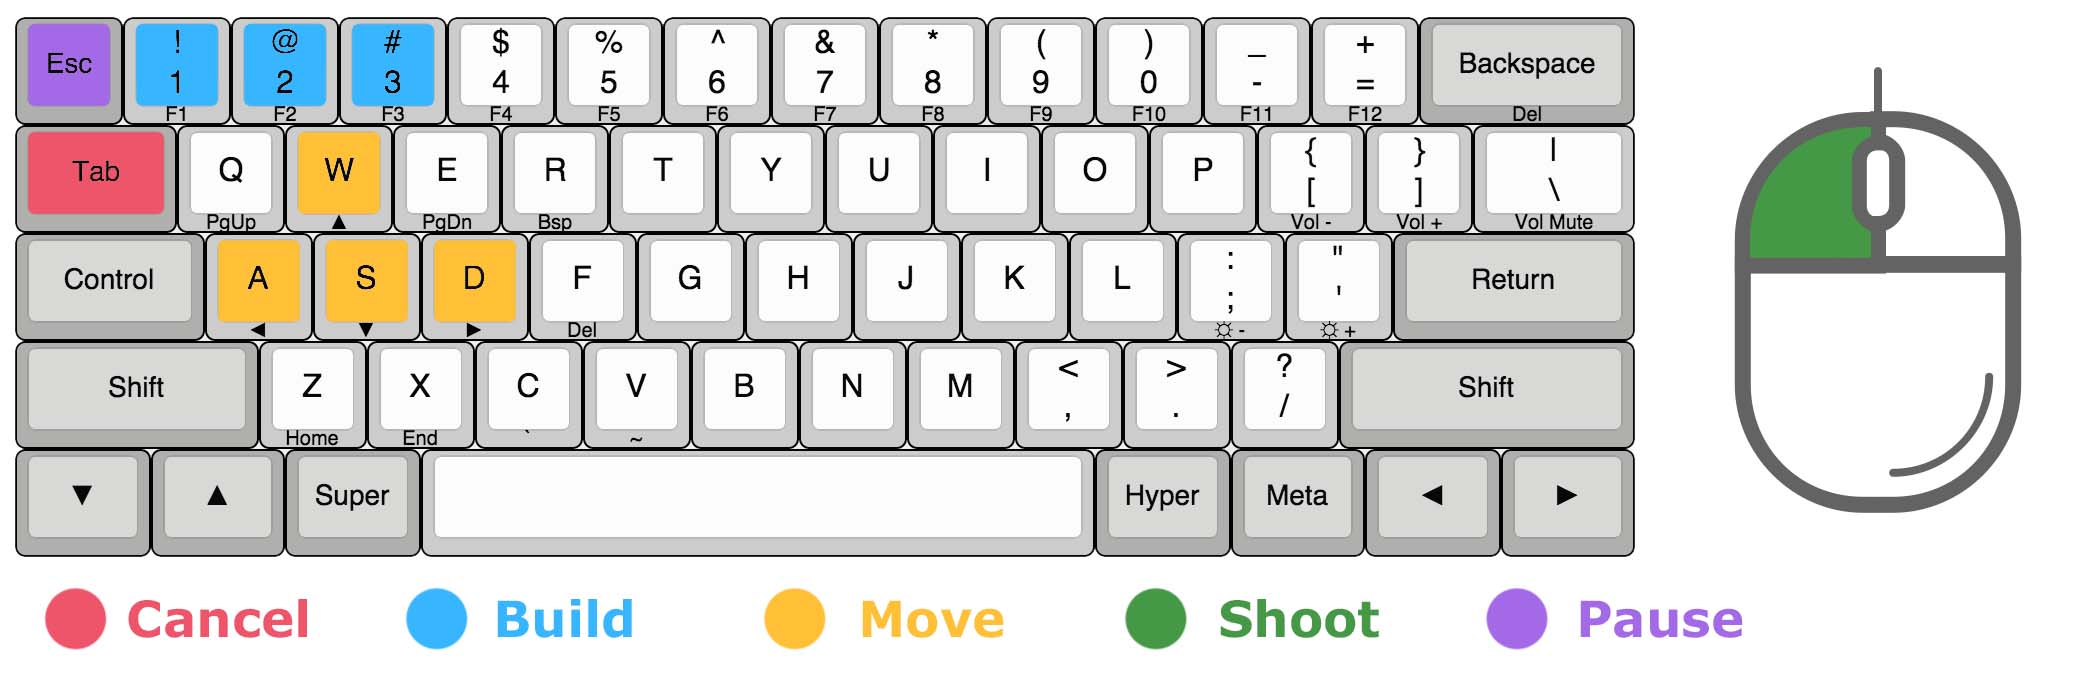
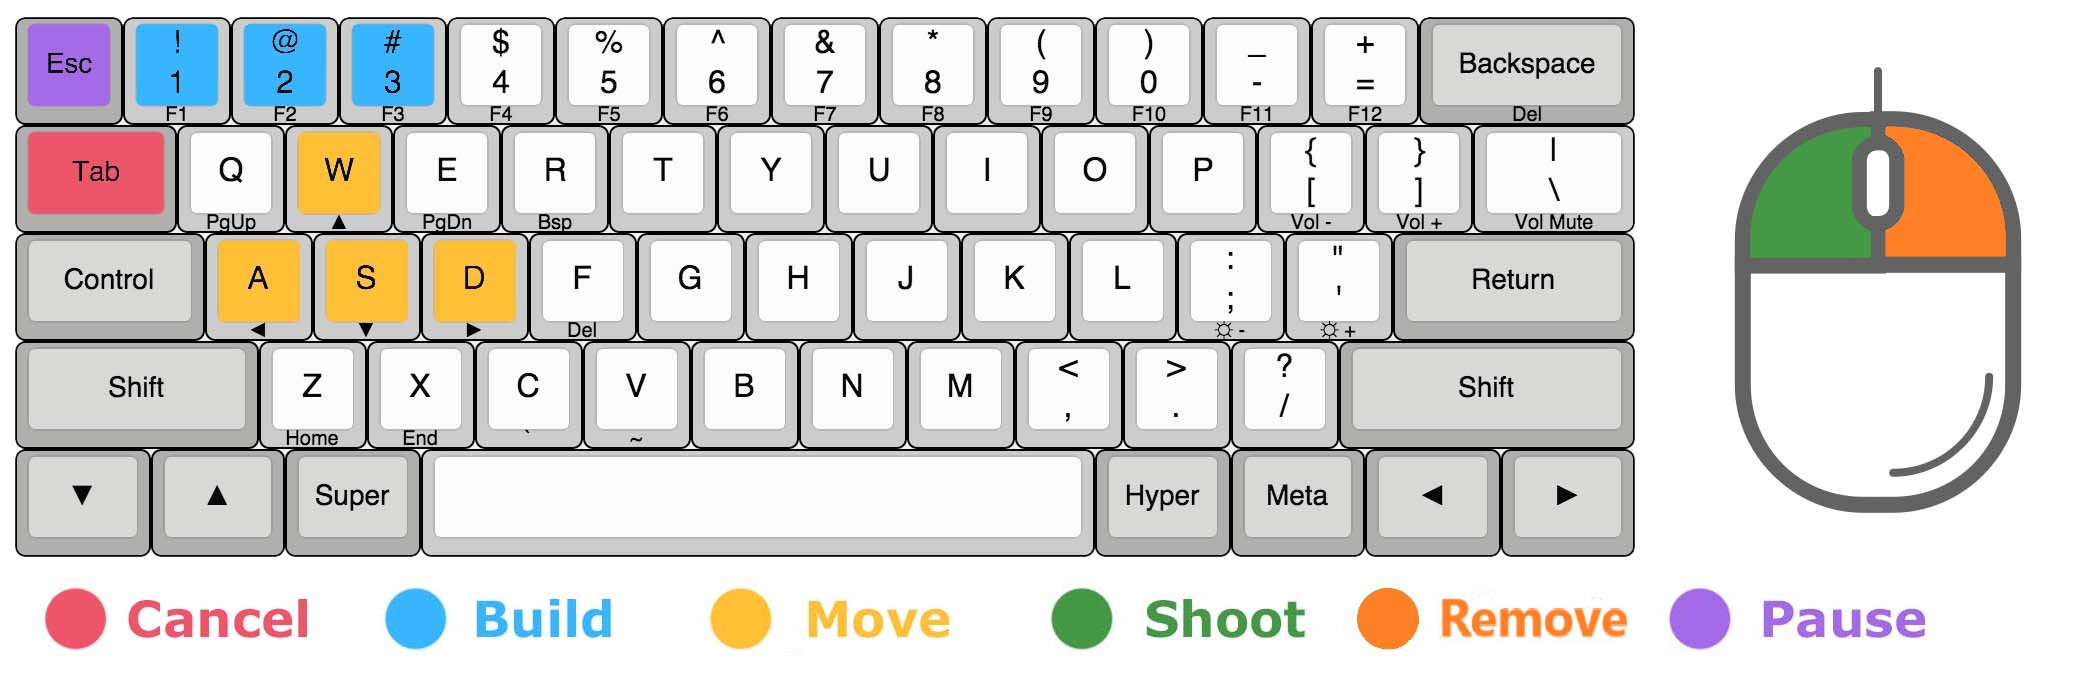
changed colours and added remove in helpscreen

Changed region(s): [[0.3405, 0.8647, 0.9286, 0.9574], [0.8976, 0.1853, 0.9595, 0.4015], [0.1857, 0.8647, 0.3095, 0.9574]]

diff --git a/Prism.Game/include/ECS/Systems/PlaceCurrentBuildSystem.h b/Prism.Game/include/ECS/Systems/PlaceCurrentBuildSystem.h
@@ -18,7 +18,7 @@ namespace ECS {
 		private:
 			Math::Vector3f canBuildColor = Math::Vector3f{ 0.5f, 1.0f, 1.0f };
 			Math::Vector3f CanNotBuildColor = Math::Vector3f{ 1.0f, 0.5f, 0.5f };
-			Math::Vector3f CanRemoveBuildColor = Math::Vector3f{ 0.5f, 1.0f, 0.5f };
+			Math::Vector3f CanRemoveBuildColor = Math::Vector3f{ 1.0f, 0.75f, 0.0f };
 
 			float wallRequirements;
 			float towerRequirements;
